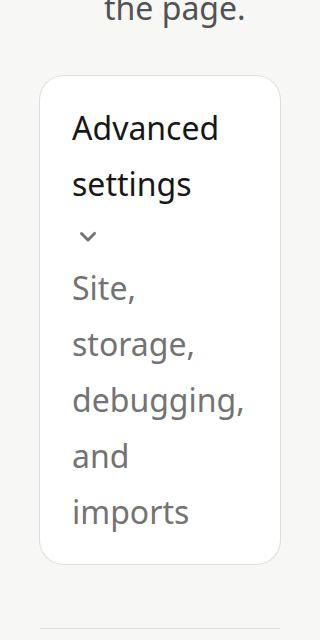
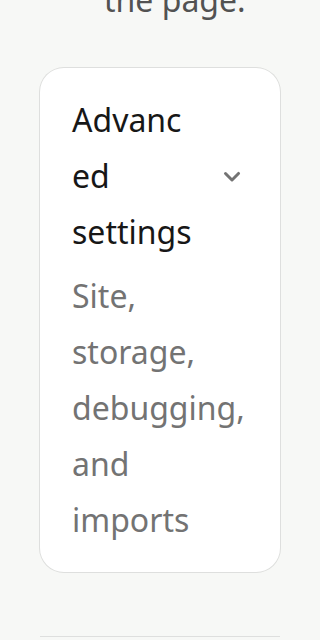
Playground: review round 2 fix - grid layout for Advanced settings summary (TOOLS-398)

diff --git a/src/App.jsx b/src/App.jsx
@@ -1674,11 +1674,11 @@ function LaunchSummary({ recipe, selectedPackageLabel, selectedPluginLabels, key
         <dl className="grid grid-cols-1 gap-3 pt-5 text-base/7 sm:text-sm/6">
           <div className="flex flex-wrap items-start justify-between gap-x-4 gap-y-1">
             <dt className="shrink-0 font-medium text-neutral-900">Environment</dt>
-            <dd className="flex-1 basis-0 min-w-[min(100%,8rem)] text-right text-neutral-600 [overflow-wrap:anywhere]">WordPress {recipe.wordpress}<br />PHP {recipe.php}</dd>
+            <dd className="flex-1 min-w-[min(100%,8rem)] text-right text-neutral-600 [overflow-wrap:anywhere]">WordPress {recipe.wordpress}<br />PHP {recipe.php}</dd>
           </div>
           <div className="flex flex-wrap items-start justify-between gap-x-4 gap-y-1">
             <dt className="shrink-0 font-medium text-neutral-900">Packages</dt>
-            <dd className="flex-1 basis-0 min-w-[min(100%,8rem)] text-end text-neutral-600 [overflow-wrap:anywhere]">
+            <dd className="flex-1 min-w-[min(100%,8rem)] text-end text-neutral-600 [overflow-wrap:anywhere]">
               {selectedPackageLabel || 'WordPress only'}
               {selectedPluginLabels.length > 0 && <span className="block">{selectedPluginLabels.join(', ')}</span>}
             </dd>
@@ -1686,20 +1686,20 @@ function LaunchSummary({ recipe, selectedPackageLabel, selectedPluginLabels, key
           {keyCounts.total > 0 && (
             <div className="flex flex-wrap items-start justify-between gap-x-4 gap-y-1">
               <dt className="shrink-0 font-medium text-neutral-900">Licenses</dt>
-              <dd className="flex-1 basis-0 min-w-[min(100%,8rem)] text-right text-neutral-600 [overflow-wrap:anywhere]">{keyCounts.saved} of {keyCounts.total} keys saved</dd>
+              <dd className="flex-1 min-w-[min(100%,8rem)] text-right text-neutral-600 [overflow-wrap:anywhere]">{keyCounts.saved} of {keyCounts.total} keys saved</dd>
             </div>
           )}
           <div className="flex flex-wrap items-start justify-between gap-x-4 gap-y-1">
             <dt className="shrink-0 font-medium text-neutral-900">Checks</dt>
-            <dd className="flex-1 basis-0 min-w-[min(100%,8rem)] text-right text-neutral-600 [overflow-wrap:anywhere]">{checks.length ? checks.map((check) => check.name).join(' + ') : 'None'}</dd>
+            <dd className="flex-1 min-w-[min(100%,8rem)] text-right text-neutral-600 [overflow-wrap:anywhere]">{checks.length ? checks.map((check) => check.name).join(' + ') : 'None'}</dd>
           </div>
           <div className="flex flex-wrap items-start justify-between gap-x-4 gap-y-1">
             <dt className="shrink-0 font-medium text-neutral-900">Storage</dt>
-            <dd className="flex-1 basis-0 min-w-[min(100%,8rem)] text-right text-neutral-600 [overflow-wrap:anywhere]">{recipe.storage === 'browser' ? 'Saved in this browser' : 'Temporary'}</dd>
+            <dd className="flex-1 min-w-[min(100%,8rem)] text-right text-neutral-600 [overflow-wrap:anywhere]">{recipe.storage === 'browser' ? 'Saved in this browser' : 'Temporary'}</dd>
           </div>
           <div className="flex flex-wrap items-start justify-between gap-x-4 gap-y-1">
             <dt className="shrink-0 font-medium text-neutral-900">Networking</dt>
-            <dd className="flex-1 basis-0 min-w-[min(100%,8rem)] text-right text-neutral-600 [overflow-wrap:anywhere]">{recipe.networking ? 'Allowed' : 'Blocked'}</dd>
+            <dd className="flex-1 min-w-[min(100%,8rem)] text-right text-neutral-600 [overflow-wrap:anywhere]">{recipe.networking ? 'Allowed' : 'Blocked'}</dd>
           </div>
         </dl>
 
@@ -2907,10 +2907,10 @@ echo 'PLAYGROUND_ACTIVE_THEME:' . get_option('stylesheet');
                   </div>
                 </div>
                 <details open={Boolean(recipe.wxrUrl || recipe.phpExtensionManifestUrl)} className="group @container mt-5 rounded-xl bg-white ring-1 ring-neutral-950/10 open:shadow-sm">
-                  <summary className="flex cursor-pointer list-none flex-wrap items-center gap-x-3 gap-y-1 rounded-xl px-4 py-3 text-base/7 font-medium text-neutral-900 outline-none marker:hidden hover:bg-neutral-50 focus-visible:outline-2 focus-visible:outline-offset-2 focus-visible:outline-teal-600 sm:text-sm/6 [&::-webkit-details-marker]:hidden">
-                    <span className="min-w-0 flex-auto">Advanced settings</span>
-                    <span className="min-w-0 font-normal text-neutral-500 @max-[20rem]:order-last @max-[20rem]:basis-full">Site, storage, debugging, and imports</span>
-                    <ChevronDownIcon className="size-4 shrink-0 fill-neutral-500 transition-transform duration-200 group-open:rotate-180" />
+                  <summary className="grid cursor-pointer list-none grid-cols-[minmax(0,1fr)_auto] items-center gap-x-3 gap-y-1 rounded-xl px-4 py-3 text-base/7 font-medium text-neutral-900 outline-none marker:hidden hover:bg-neutral-50 focus-visible:outline-2 focus-visible:outline-offset-2 focus-visible:outline-teal-600 @lg:grid-cols-[minmax(0,1fr)_auto_auto] sm:text-sm/6 [&::-webkit-details-marker]:hidden">
+                    <span className="min-w-0 hyphens-auto [overflow-wrap:anywhere]">Advanced settings</span>
+                    <span className="col-span-full row-start-2 min-w-0 font-normal text-neutral-500 [overflow-wrap:anywhere] @lg:col-span-1 @lg:col-start-2 @lg:row-start-1">Site, storage, debugging, and imports</span>
+                    <ChevronDownIcon className="col-start-2 row-start-1 size-4 shrink-0 fill-neutral-500 transition-transform duration-200 group-open:rotate-180 @lg:col-start-3" />
                   </summary>
                   <div className="grid grid-cols-1 gap-6 border-t border-neutral-950/10 p-4">
                     <fieldset className="grid min-w-0 grid-cols-1 gap-4">

diff --git a/src/bar-compact-labels.test.js b/src/bar-compact-labels.test.js
@@ -194,21 +194,22 @@ test('at 320 px with 200% text the launcher has no 20 rem body minimum or unwrap
   const radioFn = app.slice(app.indexOf('function Radio('), app.indexOf('function GitHubStarButton('))
   assert.match(radioFn, /<span className="min-w-0 \[overflow-wrap:anywhere\]">/)
 
-  // Advanced settings summary wraps its description below the label in narrow containers instead of
-  // squeezing the label to 0 px.
+  // Advanced settings summary uses a two-column grid so the arrow stays on the title line and
+  // flush right at every width, with the description on its own row until @lg (32 rem).
   const detailsStart = app.indexOf('<details open={Boolean(recipe.wxrUrl')
   const summaryBlock = app.slice(detailsStart, app.indexOf('</summary>', detailsStart))
   assert.match(summaryBlock, /(?:^|[\s"])@container\b/)
-  assert.match(summaryBlock, /<summary className="[^"]*\bflex-wrap\b/)
-  assert.match(summaryBlock, /<span className="min-w-0 flex-auto">Advanced settings<\/span>/)
-  assert.match(summaryBlock, /@max-\[20rem\]:order-last @max-\[20rem\]:basis-full/)
+  assert.match(summaryBlock, /<summary className="[^"]*\bgrid\b[^"]*\bgrid-cols-\[minmax\(0,1fr\)_auto\][^"]*@lg:grid-cols-\[minmax\(0,1fr\)_auto_auto\]/)
+  assert.match(summaryBlock, /col-span-full row-start-2[^"]*@lg:col-span-1 @lg:col-start-2 @lg:row-start-1/)
+  assert.match(summaryBlock, /<ChevronDownIcon className="[^"]*\bcol-start-2 row-start-1\b[^"]*@lg:col-start-3/)
+  assert.doesNotMatch(summaryBlock, /@max-\[20rem\]:/, 'does not leave common phone widths (360–430 px) with a misplaced arrow')
 
-  // LaunchSummary values start from zero width with an 8 rem floor, so long plugin lists stay
-  // beside their label at normal text and only wrap on narrow enlarged-text views.
+  // LaunchSummary values start from zero width (flex-1) with an 8 rem floor, so long plugin lists
+  // stay beside their label at normal text and only wrap on narrow enlarged-text views.
   const summaryFn = app.slice(app.indexOf('function LaunchSummary('), app.indexOf('function FeaturedPluginCard('))
   const dds = [...summaryFn.matchAll(/<dd className="([^"]*)"/g)]
   assert.equal(dds.length, 6)
   for (const [, cls] of dds) {
-    assert.match(cls, /\bflex-1 basis-0 min-w-\[min\(100%,8rem\)\](?:\s|$)/)
+    assert.match(cls, /\bflex-1 min-w-\[min\(100%,8rem\)\](?:\s|$)/)
   }
 })

diff --git a/docs/changes/2026-11-22-big-text-on-small-phones.md b/docs/changes/2026-11-22-big-text-on-small-phones.md
@@ -39,7 +39,7 @@ On a 320 px phone with 200% text (`html { font-size: 200% }`), three of the four
   - Bar buttons add `@max-[20rem]:min-h-[max(1.75rem,calc(44px-0.5rem))]` (`UpdatesControl.jsx` `BAR_BUTTON_CLASS`, Licenses, Export snapshot and Close Playground, with `inline-flex items-center justify-center` and `@max-[20rem]:ml-auto` on Close Playground) so wrapped buttons plus the `0.5rem` row gap always give at least a 44 px tap height even at 110%–120% text.
   - Bar tap targets (`BarTapTarget` in `src/UpdatesControl.jsx` and the three inline spans in `src/App.jsx`) add `@max-[20rem]:h-[calc(100%+0.5rem)] @max-[20rem]:w-[calc(100%+0.25rem)]` so wrapped rows meet at the midpoint without overlapping vertically and stay >= 44 px at every enlarged text size.
   - Close confirmation prompt adds `@max-[20rem]:basis-full @max-[20rem]:whitespace-normal`; **Keep open** and **Discard and close** add `max-w-full` and cap their `@max-[20rem]` tap-span minimum to `44px` (`@max-[20rem]:h-[max(100%,44px)] @max-[20rem]:w-[max(100%,44px)]`) so 56 px tall buttons at 200% text do not grow to 88 px overlays that overlap across rows.
-  - Launcher layout: `AppHeader`, Environment header and `LaunchSummary` rows allow wrapping (`LaunchSummary` `dd` uses `flex-1 basis-0 min-w-[min(100%,8rem)]` so values stay on the same line as their `dt` at normal text and only wrap when less than 8 rem remains); `Advanced settings` `<details>` adds `@container`, `<summary>` adds `flex-wrap`, the label uses `flex-auto`, and the description drops onto its own line below `20rem` (`@max-[20rem]:order-last @max-[20rem]:basis-full`); `Select`, `TextField`, `Advanced settings` `<fieldset>`s, `Uploaded themes` and `Name and save` use `grid-cols-1` / `min-w-0` / `w-full`; Featured plugins grid switches to 1 column below `15rem` (`@container` + `grid-cols-1 @[15rem]:grid-cols-2 lg:grid-cols-4`); Checks cards allow wrapping without `shrink-0` overflow; `h1` uses `hyphens-auto [overflow-wrap:anywhere]`, and `Checkbox`, `Radio` and the empty theme-upload button use `[overflow-wrap:anywhere]`.
+  - Launcher layout: `AppHeader`, Environment header and `LaunchSummary` rows allow wrapping (`LaunchSummary` `dd` uses `flex-1 min-w-[min(100%,8rem)]` so values stay on the same line as their `dt` at normal text and only wrap when less than 8 rem remains); `Advanced settings` `<details>` adds `@container` and `<summary>` uses a two-column grid (`grid-cols-[minmax(0,1fr)_auto]`, three columns from `@lg` / 32 rem) so the label and chevron stay on row 1 flush right at every width while the description sits cleanly on row 2 below 32 rem; `Select`, `TextField`, `Advanced settings` `<fieldset>`s, `Uploaded themes` and `Name and save` use `grid-cols-1` / `min-w-0` / `w-full`; Featured plugins grid switches to 1 column below `15rem` (`@container` + `grid-cols-1 @[15rem]:grid-cols-2 lg:grid-cols-4`); Checks cards allow wrapping without `shrink-0` overflow; `h1` uses `hyphens-auto [overflow-wrap:anywhere]`, and `Checkbox`, `Radio` and the empty theme-upload button use `[overflow-wrap:anywhere]`.
 - `src/styles.css`: removed `min-width: 20rem` from `body`.
 - `src/bar-compact-labels.test.js`: three new regression tests covering the `< 20rem` bar wrap and minimum button height, close confirmation wrap/tap bounds, and launcher 320 px 200% rules (including `Advanced settings` summary and `LaunchSummary` `dd` wrapping floor).
 - `src/checks-panel.test.js`: the existing Keep open / Discard and close tap-area assertion was loosened to accept the optional `@max-[20rem]` tap-size cap classes.
@@ -59,19 +59,24 @@ Real-browser measurements ran in headless Google Chrome (via `playwright-core`) 
 | Chrome 320 px, 100% & 200% text, launcher (before → after) | Measure `documentElement.scrollWidth` on start page, open Advanced settings, all 4 tabs, and with Query Monitor + Code Profiler selected | `scrollWidth === 320` in every state | Before: 100% `320`, 200% `640` (`body` 640, 622 without `body` min-width, 644 with Advanced open). After: `320` at 100%, `320` at 200%, `320` with Advanced open, `320` across all 4 tabs (`Saved recipes`, `Choose plugins`, `Choose themes`, `Past spin-ups`), `320` with Query Monitor + Code Profiler selected | ![Before: launcher at 320 px 200%](assets/2026-11-22-tools-398-launcher-320-200-before.png) ![After: launcher at 320 px 200%](assets/2026-11-22-tools-398-launcher-320-200-after.png) |
 | Chrome full-bar & confirmation matrix (after) | Built CSS tested with full bar (`10/12`, `12` warnings, `12` + `2` failed) and close confirmation across 320 px (100, 110, 115, 120, 125, 150, 175, 200%), 360 px (100, 110, 115, 120, 125, 200%), 384 px (100%), 400/480 px (200%) | All on screen, `scrollWidth <= vw`, tap >= 44 px, zero tap overlaps | Full bar passes every case: 320 px 100% (`barH: 32`, `minTapW: 44`, `minTapH: 56`), 320 px 110/115/120% (`barH: 88`, `minTapW: 48.4/50.6/52.8`, `minTapH: 44`), 320 px 125–200% (`minTapW: 55–88`, `minTapH: 45–72`), 360 px 100% (`barH: 32`), 360 px 110% (`barH: 35.2`, `minTapH: 61.6`), 360 px 115/120/125/200% (`minTapH: 44/44/45/72`), 384 px 100% (`barH: 32`), 400/480 px 200% (`minTapH: 72`), all with `overlaps: []`. Close confirmation passes all 14 widths/scales (320–1280 px, 100–200%) with zero overlaps | Matrix run against built CSS |
 | Chrome 375 px & 1280 px, 100% text (after review round 1) | Select 3 featured plugins with long names + Query Monitor + Code Profiler; compare `dt` and `dd` top coordinates in `LaunchSummary` | Every `dd` starts on the same line as its `dt` (`|dt.top - dd.top| <= 1`) | All 5 rows at 375 px (`diff: 0`) and all 5 rows at 1280 px sidebar (`diff: 0`, `allSameLine: true`) | Measured in Chrome |
-| Chrome 320 px, 100% & 200% text (after review round 1) | Measure `Advanced settings` `<summary>` label and description `getBoundingClientRect()` | Label width > 0, no overlap with description, `scrollWidth === 320` | 100%: label `w: 220, y: 906..934`, desc `w: 248, y: 938..994`, `overlap: false`, `sw: 320`. 200%: label `w: 176, y: 3482..3594`, desc `w: 176, y: 3642..3922`, `overlap: false`, `sw: 320` | ![After: Advanced settings at 320 px 200%](assets/2026-11-22-tools-398-advanced-320-200-after.png) |
+| Chrome 320–640 px, 100% & 200% text (after review round 2) | Measure `Advanced settings` `<summary>` label, description and chevron boxes at 320, 360, 375, 414, 600 px (100%) and 320, 640 px (200%) | Label width > 0, no label/description overlap, chevron vertical middle within 2 px of label, chevron right edge within 1 px of inner right edge, `scrollWidth <= vw` | All 7 cases pass with `midDiff: 0`, `rightDiff: 0`, `overlap: false`, `sw === vw` (`labelW`: 220 / 260 / 275 / 314 / 204 px at 100%; 120 / 392 px at 200%) | ![After: Advanced settings at 320 px 200%](assets/2026-11-22-tools-398-advanced-320-200-after.png) |
 
 ### Review round 1 (`kit review`, Claude Opus 5.5)
 
 - Fixed (P2): below `20rem` at 110%–120% text (e.g. 320 px 110% or 360 px 115%), `min-h-7` + `0.5rem` row gap dropped bar tap height below 44 px (39.6–41.4 px). All four bar buttons now use `@max-[20rem]:min-h-[max(1.75rem,calc(44px-0.5rem))]`, verified >= 44 px across 110%, 115% and 120% at 320 px and 360 px and covered by a new failing-first assertion in `src/bar-compact-labels.test.js`.
-- Fixed (P2): `LaunchSummary` `dd` values wrapped below their `dt` at normal 100% text when plugin names were long. Each `dd` now uses `flex-1 basis-0 min-w-[min(100%,8rem)]`, verified `dt.top === dd.top` across all rows at 375 px and 1280 px with 5 plugins selected.
-- Fixed (P2): `Advanced settings` `<summary>` could squeeze its label to 0 px width and overlap its description. `<details>` now uses `@container`, `<summary>` wraps, the label uses `flex-auto`, and the description drops to its own line below `20rem` (`@max-[20rem]:order-last @max-[20rem]:basis-full`), verified non-overlapping at 320 px 100% and 200%.
+- Fixed (P2): `LaunchSummary` `dd` values wrapped below their `dt` at normal 100% text when plugin names were long. Each `dd` now uses `flex-1 min-w-[min(100%,8rem)]`, verified `dt.top === dd.top` across all rows at 375 px and 1280 px with 5 plugins selected.
+- Fixed (P2): `Advanced settings` `<summary>` could squeeze its label to 0 px width and overlap its description. Fixed first with wrapping, then refined in review round 2 below.
 - Fixed (P3): linked `2026-11-21-playground-0-11-1-small-fixes.md` and `2026-11-21-checks-panel-overview-and-open-page.md` and corrected the test-file attribution (`bar-compact-labels.test.js` vs `checks-panel.test.js`).
 - Fixed (optional nits): added `hyphens-auto` to `h1` and removed `"20 rem"` jargon from the user-facing 0.12.2 changelog entry. Left the bar's recipe name sharing row 1 (matches the 0.11.1 record's note leaving recipe-name room as a separate choice).
 
+### Review round 2 (`kit review`, Claude Opus 5.5)
+
+- Fixed (P2): the round 1 `@max-[20rem]` flex-wrap summary let the `Advanced settings` chevron drop off the title line on 360–430 px phones at 100% text. `<summary>` now uses a two-column grid (`grid-cols-[minmax(0,1fr)_auto]`, three columns from `@lg` / 32 rem) so the chevron stays vertically centered on the title line and flush right at every width while the description sits cleanly on row 2 below 32 rem; verified at 320, 360, 375, 414, 600 px (100%) and 320, 640 px (200%) with `midDiff: 0` and `rightDiff: 0`, and covered by a failing-first test in `src/bar-compact-labels.test.js`.
+- Fixed (optional nit): removed redundant `basis-0` from the six `LaunchSummary` `dd`s (`flex-1` already sets `flex-basis: 0%` in Tailwind v4).
+
 ## Result
 
-All four TOOLS-398 acceptance criteria pass at 320 px with 200% text (and 100% text), verified on the real embedded WordPress 7.1.5 Playground and across all launcher tabs and open Advanced settings. Normal 100% text layouts from 320 px to 1280 px are unchanged.
+All four TOOLS-398 acceptance criteria pass at 320 px with 200% text (and 100% text), verified on the real embedded WordPress 7.1.5 Playground and across all launcher tabs and open Advanced settings. Normal 100% text layouts from 320 px to 1280 px stay on one row for the Playground bar, close confirmation and LaunchSummary; on narrow phones below 32 rem container width, the `Advanced settings` summary now intentionally places its subtitle cleanly on a second row while keeping the title and chevron on row 1.
 
 ## Disposition and rationale
 
